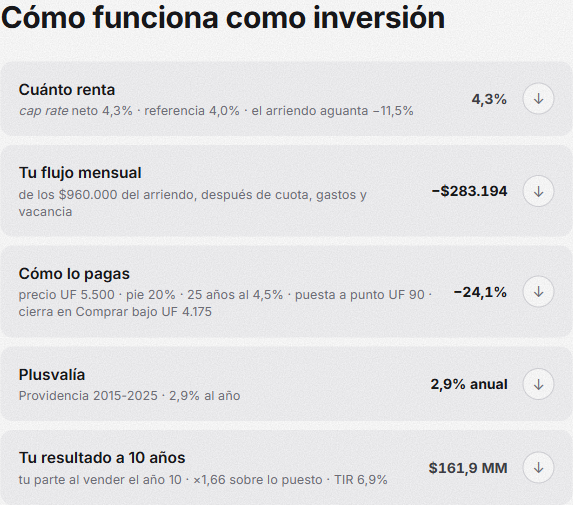
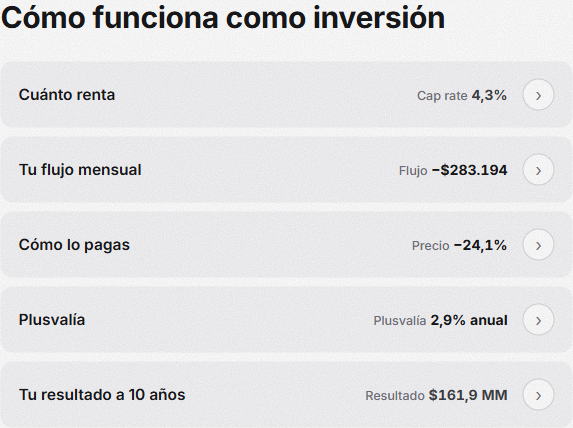
fix(informe): las cuatro correcciones de 4c — apellido, rótulos cortos, el «+» y la fila que faltaba
1 · LA FILA DE CAPÍTULO: sin bajada, y la cifra CON APELLIDO. El `ksub` explicaba el
número —«de los $960.000 del arriendo, después de cuota, gastos y vacancia»— y eso es el
cuerpo del capítulo, no la fila. Se oculta por CSS, no se borra: la pieza la monta también
STR. El disco pasa de «↓» a «›»: el «↓» dice «esto se despliega», el «›» dice «esto lleva
a algo», que es lo que la primitiva de fila navegable promete. Al abrirse gira 90 grados.

  Cap rate 4,3% · Flujo −$283.194 · Precio −24,1% · Plusvalía 2,9% anual · Resultado $161,9 MM

LA REGLA GENERAL, MEDIDA ANTES DE APLICARLA: un número sin apellido no se entiende solo
salvo que el contexto lo dé PEGADO. Revisé las otras dos superficies con esa vara:

  · tarjetas de cifra (§6) — el rótulo va a 9 px ENCIMA del valor. Contexto pegado.
  · tarjetas de zona (§8) — ídem, 9 px. Y la píldora tiene su referencia justo arriba
    («mediana $896 mil», «promedio Gran Santiago 35%»), así que «7% sobre» y «5 pts bajo»
    se leen solas.
  · fila de capítulo — el título es una PREGUNTA y la cifra vive al otro extremo de una
    fila de 700 px. Ahí «4,3%» no dice de qué.

NINGUNA CIFRA DE TARJETA CAMBIA. El apellido entra solo donde el contexto no está pegado,
y solo con el interruptor: el camino de siempre conserva la cifra pelada.

2 · COMPRAR con rótulos de una palabra. «Cuánto aguanta el veredicto» en una columna de
96 px se parte en tres líneas. `FilaLoQueHariaYo` gana `rotuloCorto` —«Aguanta»,
[…]

diff --git a/scripts/eval/golden/recomendacion-rediseno-catch-test.ts b/scripts/eval/golden/recomendacion-rediseno-catch-test.ts
@@ -46,6 +46,7 @@ const POS = leer("src/components/analysis/shared/PosicionFranco.tsx");
 const BLO = leer("src/components/analysis/shared/LoQueHariaYoBloque.tsx");
 const HERO = leer("src/components/analysis/HeroLTR.tsx");
 const ACO = leer("src/components/analysis/hallazgos/HallazgosAcordeon.tsx");
+const CAPS = leer("src/components/analysis/CapitulosInversion.tsx");
 
 /** Un bloque del rediseño, sin comentarios (llevan comas y ensucian los selectores). */
 function bloqueDe(rotulo: string): string {
@@ -186,11 +187,58 @@ for (const m of REC.matchAll(/([^{}]+)\{([^{}]*)\}/g)) {
   }
 }
 
+// ── 9 · la fila de capítulo: sin bajada, disco con «›», cifra apellidada ──
+{
+  const ksub = reglaDe(".doc-r2 .hall.cap .ksub", CAP);
+  if (!ksub || !/display:\s*none/.test(ksub)) F("9 · la bajada volvió a la fila de capítulo (§7: la fila es título y cifra; el ksub es el cuerpo del capítulo)");
+  const chev = reglaDe(".doc-r2 .hall.cap .chev::after", CAP);
+  if (!chev) F("9 · el disco no dibuja su carácter propio");
+  else if (!chev.includes("›")) {
+    F(`9 · el disco dejó de llevar «›»: «${chev.slice(0, 50)}». El «↓» dice «esto se despliega»; «›» dice «esto lleva a algo», que es lo que la primitiva promete. Ojo con escribirlo como escape hexadecimal de CSS: pasado por un script de Python el prefijo se lee como octal y sale una «A» (medido en el DOM).`);
+  }
+  // LA CIFRA CON APELLIDO. En la fila de capítulo el título es una pregunta y la cifra
+  // vive al otro extremo: «4,3%» solo no dice de qué. En las tarjetas de cifra y de zona
+  // el rótulo va a 9 px ENCIMA del valor —medido—, así que ahí la cifra va sola.
+  const APELLIDOS = ["Cap rate", "Flujo", "Precio", "Plusvalía", "Resultado"];
+  for (const a of APELLIDOS) {
+    if (!CAPS.includes(`conApellido(rediseno, "${a}"`)) {
+      F(`9 · la cifra del capítulo perdió su apellido «${a}». Un número sin apellido no se entiende solo salvo que el contexto lo dé pegado, y acá no lo da.`);
+    }
+  }
+  if (!/rediseno \?/.test(CAPS)) F("9 · el apellido dejó de estar detrás del interruptor: el camino de siempre lleva la cifra pelada");
+}
+
+// ── 10 · la ecuación: rótulo de una palabra y el «+» que no queda solo ────
+{
+  if (!/rotuloCorto \?\? f\.titulo/.test(BLO)) {
+    F("10 · la ecuación volvió a usar el título largo. «Cuánto aguanta el veredicto» en una columna de 96 px se parte en tres líneas.");
+  }
+  if (!/rotuloCorto: "Aguanta"/.test(leer("src/lib/lo-que-haria-yo.ts")) || !/rotuloCorto: "Verifica"/.test(leer("src/lib/lo-que-haria-yo.ts"))) {
+    F("10 · las filas de COMPRAR perdieron su rótulo de una palabra");
+  }
+  if (!/rec-chip-g/.test(BLO) || !reglaDe(".doc-r2 .rec-chip-g", REC)) {
+    F("10 · el «+» volvió a ir suelto entre los dos chips. A 390 px el salto de línea cae justo antes y el signo queda solo arriba del segundo chip, sumando con la nada (medido).");
+  }
+}
+
+// ── 11 · «Resultado» también sin mix, cuando las filas cruzan ─────────────
+{
+  // EL USO, no la declaración: `/mostrarResultado/` a secas matchea el `const`, así que
+  // con `{false && (` puesto el guard seguía verde — la fila no se dibujaba y el tier no
+  // lo veía. Es la misma trampa que con `useRediseno` y el import.
+  if (!BLO.includes("{mostrarResultado && (")) {
+    F("11 · la rama sin mix volvió a no dibujar «Resultado». Cuando hay filas, esas filas SON salidas —palancas que cruzan solas, medidas contra COMPRAR— y la transición es tan cierta como con mix.");
+  }
+  if (!/!soloEscalon && veredicto !== "COMPRAR" && filas\.length > 0/.test(BLO)) {
+    F("11 · la condición de «Resultado» sin mix cambió. No va en COMPRAR —ya está ahí— ni en sin salida —no se llega, que es lo que dice—.");
+  }
+}
+
 /** Tier para el runner: cada invariante roto es una falla dura. */
 export function runRecomendacionRedisenoTier(): { hard: number } {
   console.log("\n─── TIER RECOMENDACIÓN-REDISEÑO (contrato §5 y §7 · 0 tokens) ───");
   if (fallas.length === 0) {
-    console.log("  ✓ VERDE — el fondo por veredicto solo en la recomendación, el filtro en su capa, el costo del día uno con el mix, la card sin firma y con CTA blanco, el rótulo a 96/78 px, los capítulos sin romano y con foco, la puerta intacta detrás del interruptor, y la recomendación apuntando SIEMPRE a Comprar");
+    console.log("  ✓ VERDE — el fondo por veredicto solo en la recomendación, el filtro en su capa, el costo del día uno con el mix, la card sin firma y con CTA blanco, el rótulo a 96/78 px, los capítulos sin romano y con foco, la puerta intacta detrás del interruptor, la recomendación apuntando SIEMPRE a Comprar, la fila de capítulo sin bajada y con la cifra apellidada, y «Resultado» también sin mix");
   } else {
     for (const f of fallas) console.log(`  ✗ ${f}`);
   }

diff --git a/src/components/analysis/CapitulosInversion.tsx b/src/components/analysis/CapitulosInversion.tsx
@@ -4,6 +4,8 @@ import { SegsCierre } from "./shared/SegsCierre";
 
 import { FilaDato, FilasDato } from "./shared/FilaDato";
 import { Ang } from "./shared/Ang";
+import { useRediseno } from "./RedisenoContexto";
+import type { ReactNode } from "react";
 import { fechaCortaCL } from "@/lib/fecha-cl";
 
 import type {
@@ -87,6 +89,26 @@ const mult2 = (n: number) => n.toFixed(2).replace(".", ",");
 /** Margen de sensibilidad: entero sin decimal (−6%), coma chilena si no (−6,2%). */
 const pctMargin = (n: number) => (Number.isInteger(Math.round(n * 10) / 10) ? String(Math.round(n)) : pct1(n));
 const capVer = (v: string) => etiquetaVeredicto(v, "frase", v);
+/**
+ * LA CIFRA CON APELLIDO (contrato §7). Regla general del informe: un numero sin apellido
+ * no se entiende solo, salvo que el contexto lo de pegado.
+ *
+ * En las tarjetas de cifra y en las de zona el contexto SI esta pegado —el rotulo va
+ * justo encima del numero—, asi que ahi la cifra va sola. En la fila de capitulo no: el
+ * titulo es una pregunta («Cuanto renta») y la cifra vive al otro extremo de la fila, a
+ * cuatrocientos pixeles. «4,3%» ahi no dice de que.
+ *
+ * Se aplica SOLO con el redisenno: el camino de siempre conserva su cifra pelada, que es
+ * lo que hoy se ve en produccion.
+ */
+const conApellido = (rediseno: boolean, apellido: string, cifra: ReactNode): ReactNode =>
+  rediseno ? (
+    <>
+      <span className="val-ap">{apellido}</span> {cifra}
+    </>
+  ) : (
+    cifra
+  );
 
 function formatearEntrega(fecha?: string | null): string {
   if (!fecha) return "";
@@ -122,6 +144,7 @@ export function CapitulosInversion({
   /** Apertura pedida desde afuera («↓ Ver detalle» de Principales hallazgos). */
   abrir?: { id: string; nonce: number } | null;
 }) {
+  const rediseno = useRediseno();
   const m = results.metrics;
   const exit = results.exitScenario;
   const hs = results.hallazgos ?? [];
@@ -226,7 +249,7 @@ export function CapitulosInversion({
           id: "renta",
           numero: "I",
           pregunta: "Cuánto renta",
-          valor: `${pct1(v.capRatePct)}%`,
+          valor: conApellido(rediseno, "Cap rate", `${pct1(v.capRatePct)}%`),
           valorRojo: capRate.direccion === "adverso",
           ksub: (
             <>
@@ -279,7 +302,7 @@ export function CapitulosInversion({
     id: "flujo",
     numero: "II",
     pregunta: "Tu flujo mensual",
-    valor: signed(flujo),
+    valor: conApellido(rediseno, "Flujo", signed(flujo)),
     valorRojo: flujo < 0,
     ksub: `de los ${money(arriendo)} del arriendo, después de cuota, gastos y vacancia`,
     anchorId: anchorCapitulo("flujo"),
@@ -368,7 +391,7 @@ export function CapitulosInversion({
     id: "pagas",
     numero: "III",
     pregunta: "Cómo lo pagas",
-    valor: valorIII.v,
+    valor: conApellido(rediseno, "Precio", valorIII.v),
     valorRojo: valorIII.rojo,
     ksub: ksubIII,
     anchorId: anchorCapitulo("pagas"),
@@ -521,7 +544,7 @@ export function CapitulosInversion({
           id: "plusvalia",
           numero: "IV",
           pregunta: "Plusvalía",
-          valor: `${pct1(anual)}% anual`,
+          valor: conApellido(rediseno, "Plusvalía", `${pct1(anual)}% anual`),
           valorRojo: plus.direccion === "adverso",
           ksub: [
             v.tieneData ? `${comuna} ${rango}` : `sin serie propia · promedio Gran Santiago`,
@@ -663,7 +686,7 @@ export function CapitulosInversion({
             id: "resultado",
             numero: "V",
             pregunta: `Tu resultado a ${anios} años`,
-            valor: compact(patrimonio),
+            valor: conApellido(rediseno, "Resultado", compact(patrimonio)),
             valorRojo: mult < 1,
             ksub: [`tu parte al vender el año ${anios}`, v.sinCapitalPropio ? "" : `×${mult2(mult)} sobre lo puesto`, tir != null ? `TIR ${pct1(tir)}%` : ""].filter(Boolean).join(" · "),
             anchorId: anchorCapitulo("resultado"),

diff --git a/src/components/analysis/shared/LoQueHariaYoBloque.tsx b/src/components/analysis/shared/LoQueHariaYoBloque.tsx
@@ -135,18 +135,39 @@ function EcuacionRecomendacion({ bloque, veredicto }: { bloque: BloqueLoQueHaria
   // SIN ECUACIÓN hay tres estados: COMPRAR —dos datos—, sin salida —el número real— y
   // el mix que solo llega al escalón, que se lee igual que sin salida.
   if (!mix || soloEscalon) {
+    // LA FILA «RESULTADO» NO ES DEL MIX, ES DE LA ECUACIÓN. Sin mix, cuando hay filas,
+    // esas filas SON salidas —palancas que cruzan solas, medidas por el motor contra
+    // COMPRAR— y la transición es tan cierta como con mix. Faltaba por construcción: la
+    // rama sin mix no la dibujaba nunca, ni siquiera cuando el dato la sostenía.
+    //
+    // NO va en los otros dos casos de esta misma rama:
+    //   · COMPRAR — ya está en Comprar, no hay transición que mostrar;
+    //   · sin salida / solo escalón — no se llega, que es justamente lo que dice.
+    const mostrarResultado = !soloEscalon && veredicto !== "COMPRAR" && filas.length > 0;
     return (
       <div className="rec-eq">
         {contexto && <p className="rec-ctx">{contexto}</p>}
         {filas.map((f, i) => (
           <div className="rec-row" key={`${f.titulo}-${i}`}>
-            <span className="rec-k">{f.titulo}</span>
+            {/* El rótulo corto es de las filas de COMPRAR: «Cuánto aguanta el veredicto»
+                en una columna de 96 px se parte en tres líneas. */}
+            <span className="rec-k">{f.rotuloCorto ?? f.titulo}</span>
             <span className="rec-v">
               <b>{f.cifra}</b>
               {f.objetivo && <em>{f.objetivo}</em>}
             </span>
           </div>
         ))}
+        {mostrarResultado && (
+          <div className="rec-row">
+            <span className="rec-k">Resultado</span>
+            <span className="rec-v rec-trans">
+              <span className="rec-pill de">{corta(veredicto)}</span>
+              <i className="rec-fl">→</i>
+              <span className="rec-pill a">{corta("COMPRAR")}</span>
+            </span>
+          </div>
+        )}
         {descarte && <p className="rec-desc">{descarte}</p>}
       </div>
     );
@@ -158,13 +179,19 @@ function EcuacionRecomendacion({ bloque, veredicto }: { bloque: BloqueLoQueHaria
       {(mix.movimiento.pie || mix.movimiento.plazo) && (
         <div className="rec-row">
           <span className="rec-k">Cambias</span>
+          {/* EL «+» VIAJA CON EL CHIP DE LA IZQUIERDA. Suelto entre dos chips, a 390 px
+              el salto de línea cae justo antes y el signo queda solo arriba del segundo
+              chip, como si sumara con la nada. Envuelto con el primero en un grupo que
+              no rompe, el corte pasa DESPUÉS del signo. */}
           <span className="rec-v rec-chips">
             {mix.movimiento.pie && (
-              <span className="rec-chip">
-                Pie <s>{mix.movimiento.pie.de}%</s> <b>{mix.movimiento.pie.a}%</b>
+              <span className="rec-chip-g">
+                <span className="rec-chip">
+                  Pie <s>{mix.movimiento.pie.de}%</s> <b>{mix.movimiento.pie.a}%</b>
+                </span>
+                {mix.movimiento.plazo && <i className="rec-mas">+</i>}
               </span>
             )}
-            {mix.movimiento.pie && mix.movimiento.plazo && <i className="rec-mas">+</i>}
             {mix.movimiento.plazo && (
               <span className="rec-chip">
                 Plazo <s>{mix.movimiento.plazo.de}</s> <b>{mix.movimiento.plazo.a} años</b>

diff --git a/src/components/analysis/portada/PortadaInforme.tsx b/src/components/analysis/portada/PortadaInforme.tsx
@@ -660,16 +660,31 @@ export function DocTokens() {
       .doc-r2 .hall.cap .q{
         font-family:var(--font-heading, Georgia, serif);font-size:15.5px;font-weight:600;
         color:var(--tx);line-height:1.35}
-      .doc-r2 .hall.cap .ksub{display:block;font-size:12.5px;font-weight:400;color:var(--tx3);margin-top:3px}
+      /* SIN BAJADA (§7): la fila es titulo y cifra. El «ksub» explica el numero —«de los
+         $750.000 del arriendo, despues de cuota, gastos y vacancia»— y eso es el cuerpo
+         del capitulo, no la fila. Con la cifra ya apellidada, la fila se lee sola. No se
+         borra del JSX: la pieza la monta tambien STR, que lo conserva. */
+      .doc-r2 .hall.cap .ksub{display:none}
       .doc-r2 .hall.cap .val{
         font-family:var(--font-mono, ui-monospace);font-size:14px;font-weight:700;
-        color:var(--tx);font-variant-numeric:tabular-nums}
+        color:var(--tx);font-variant-numeric:tabular-nums;white-space:nowrap}
+      /* EL APELLIDO es contexto, no cifra: va mas liviano y sin el mono, para que el
+         numero siga siendo lo que el ojo agarra primero. */
+      .doc-r2 .hall.cap .val-ap{
+        font-family:inherit;font-size:12.5px;font-weight:500;color:var(--tx3)}
       /* EL DISCO del chevron: el mismo de «.fila-nav», que al hover se llena. */
+      /* EL DISCO LLEVA «›», no la flecha hacia abajo. El «↓» del acordeon dice «esto se
+         despliega»; el «›» dice «esto lleva a algo», que es lo que la primitiva de fila
+         navegable promete. El caracter del JSX se oculta con «font-size:0» en vez de
+         cambiarse, porque esa pieza la monta tambien STR. Al abrirse gira 90 grados y
+         vuelve a apuntar hacia abajo, que es adonde efectivamente se abrio. */
       .doc-r2 .hall.cap .chev{
         width:32px;height:32px;border-radius:50%;display:flex;align-items:center;
         justify-content:center;background:var(--page);border:1px solid var(--line2);
-        color:var(--tx3);font-size:15px;line-height:1;
+        color:var(--tx3);font-size:0;line-height:1;
         transition:background .13s,border-color .13s,color .13s,transform .2s}
+      .doc-r2 .hall.cap .chev::after{content:"›";font-size:17px;line-height:1}
+      .doc-r2 .hall.cap.open .chev{transform:rotate(90deg)}
       .doc-r2 .hall.cap .hall-head:not([disabled]):hover .chev{
         background:var(--tx);border-color:var(--tx);color:var(--page)}
       .doc-r2 .hall.cap.open .hall-head{border-color:var(--line2)}
@@ -740,6 +755,10 @@ export function DocTokens() {
         font-family:var(--font-mono, ui-monospace);font-size:13px;white-space:nowrap}
       .doc-r2 .rec-chip s{opacity:.45;text-decoration:line-through}
       .doc-r2 .rec-chip b{font-weight:700}
+      /* EL GRUPO QUE NO ROMPE: el chip y su «+» viajan juntos, asi el salto de linea
+         cae DESPUES del signo y nunca antes. Suelto, a 390 px el «+» quedaba solo
+         arriba del segundo chip, sumando con la nada. */
+      .doc-r2 .rec-chip-g{display:inline-flex;align-items:center;gap:10px;white-space:nowrap}
       .doc-r2 .rec-mas{font-style:normal;opacity:.5;font-size:15px}
 
       /* el descuento: 30 px y no más — compite con la cifra del hero */

diff --git a/src/lib/lo-que-haria-yo.ts b/src/lib/lo-que-haria-yo.ts
@@ -27,6 +27,13 @@ export interface FilaLoQueHariaYo {
   cifra: string;
   /** El valor objetivo, bajo la cifra ("UF 4.175"). null cuando la cifra ya lo dice. */
   objetivo: string | null;
+  /**
+   * Rótulo de UNA palabra para la columna fija de la ecuación (contrato §5). El
+   * `titulo` es una frase —«Cuánto aguanta el veredicto»— y en una columna de 96 px se
+   * parte en tres líneas. Solo lo llevan las filas de COMPRAR, que son las únicas que
+   * se dibujan como ecuación sin mix. `null` ⇒ se usa el `titulo`.
+   */
+  rotuloCorto?: string | null;
 }
 
 export interface MixLoQueHariaYo {
@@ -131,6 +138,7 @@ export function construirLoQueHariaYo(p: {
     if (s) {
       filas.push({
         titulo: "Cuánto aguanta el veredicto",
+        rotuloCorto: "Aguanta",
         quien: "mercado",
         cifra: s.firme ? "−50% o más" : `−${pct1(s.marginPct)}%`,
         objetivo: null,
@@ -139,6 +147,7 @@ export function construirLoQueHariaYo(p: {
     if (p.arriendoDeclaradoCLP > 0) {
       filas.push({
         titulo: "Verifica el arriendo",
+        rotuloCorto: "Verifica",
         quien: "tuyo",
         cifra: plata(p.arriendoDeclaradoCLP),
         objetivo: "lo declaraste tú",

diff --git a/src/components/analysis/hallazgos/HallazgosAcordeon.tsx b/src/components/analysis/hallazgos/HallazgosAcordeon.tsx
@@ -36,8 +36,11 @@ export type FilaHallazgo = {
   numero: string;
   /** La pregunta/resumen — la línea visible. */
   pregunta: string;
-  /** Valor mono a la derecha (KPI del hallazgo). */
-  valor: string;
+  /** Valor mono a la derecha (KPI del hallazgo). Acepta nodo porque con el rediseño la
+   *  fila de capítulo lo lleva APELLIDADO —«Cap rate 4,3%»— y el apellido va en su
+   *  propio span para poder pintarlo distinto. Los call sites de siempre siguen
+   *  pasando un string. */
+  valor: ReactNode;
   /** Sub-label del KPI (`findingDisplay().ksub`): la unidad y el contraste que el
    *  KPI solo no dice — "bajo la mediana de Ñuñoa · UF 78,4 vs UF 93,1 /m²".
    *  GOAL 16 (c): hasta acá `findingDisplay` lo construía y NINGUNA superficie lo
